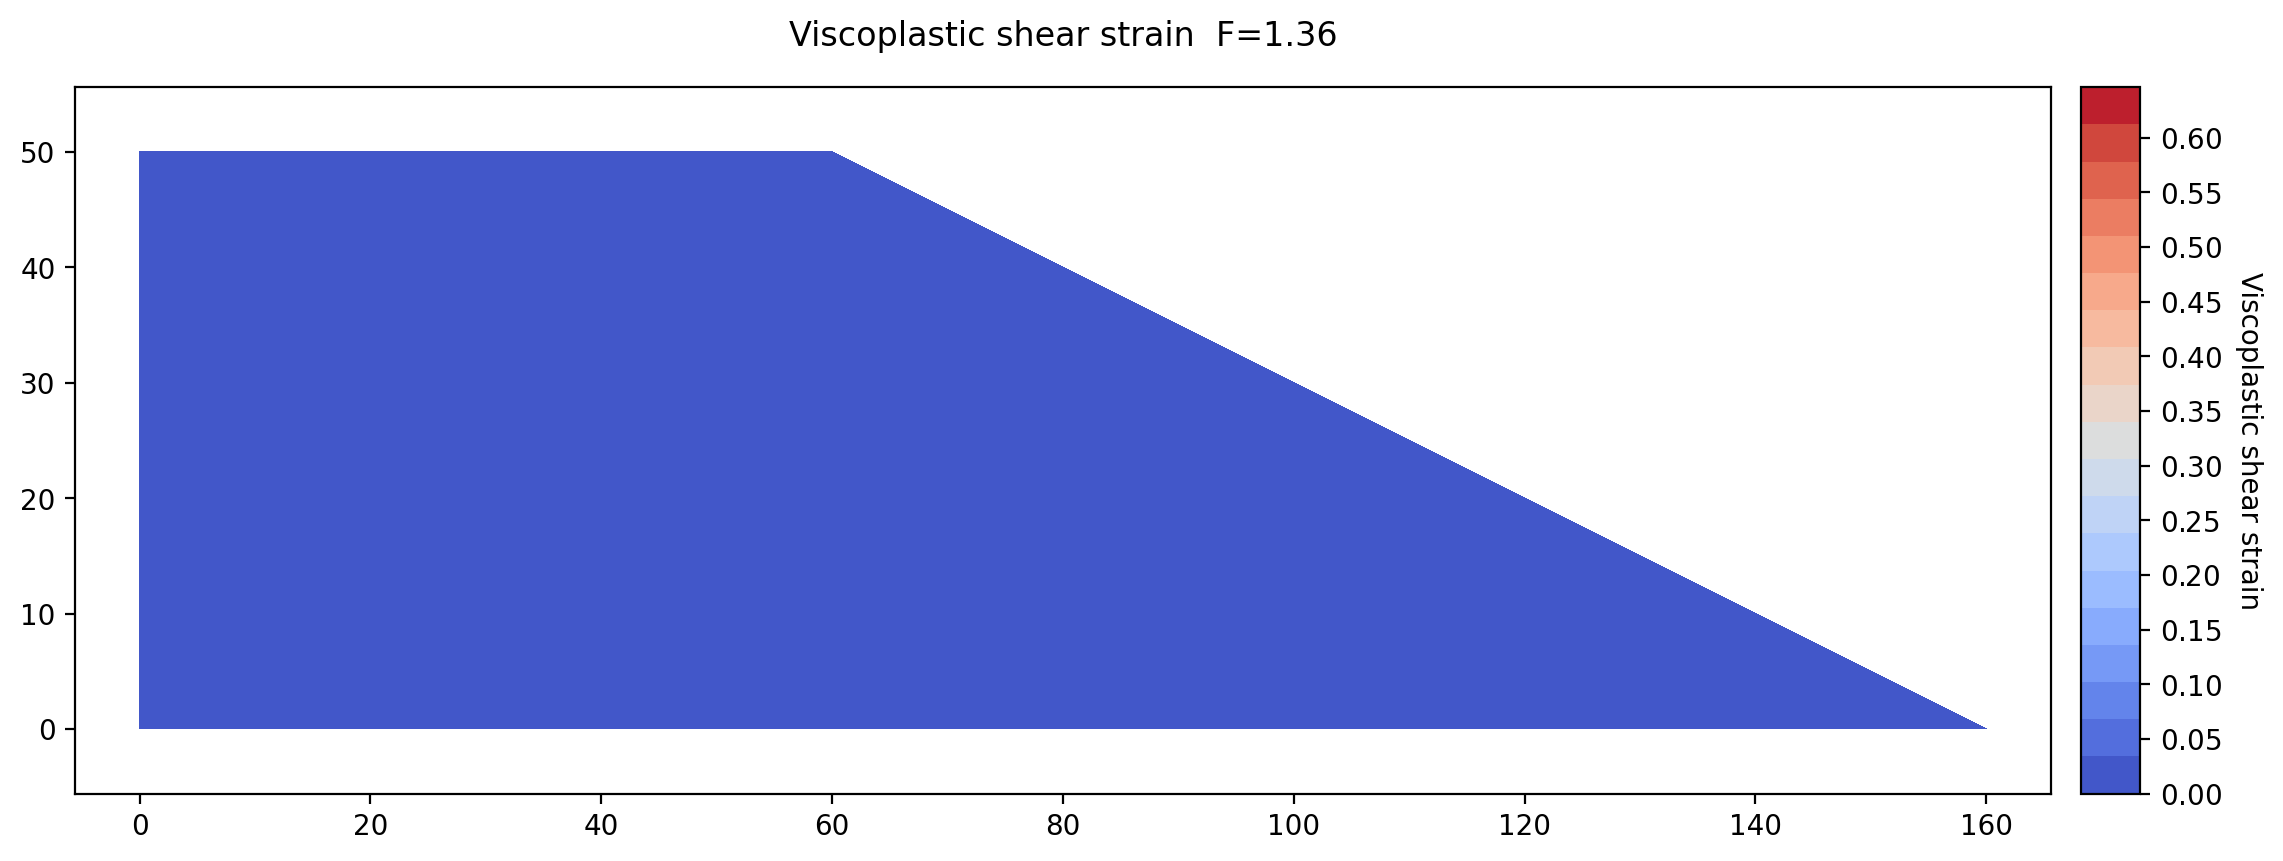
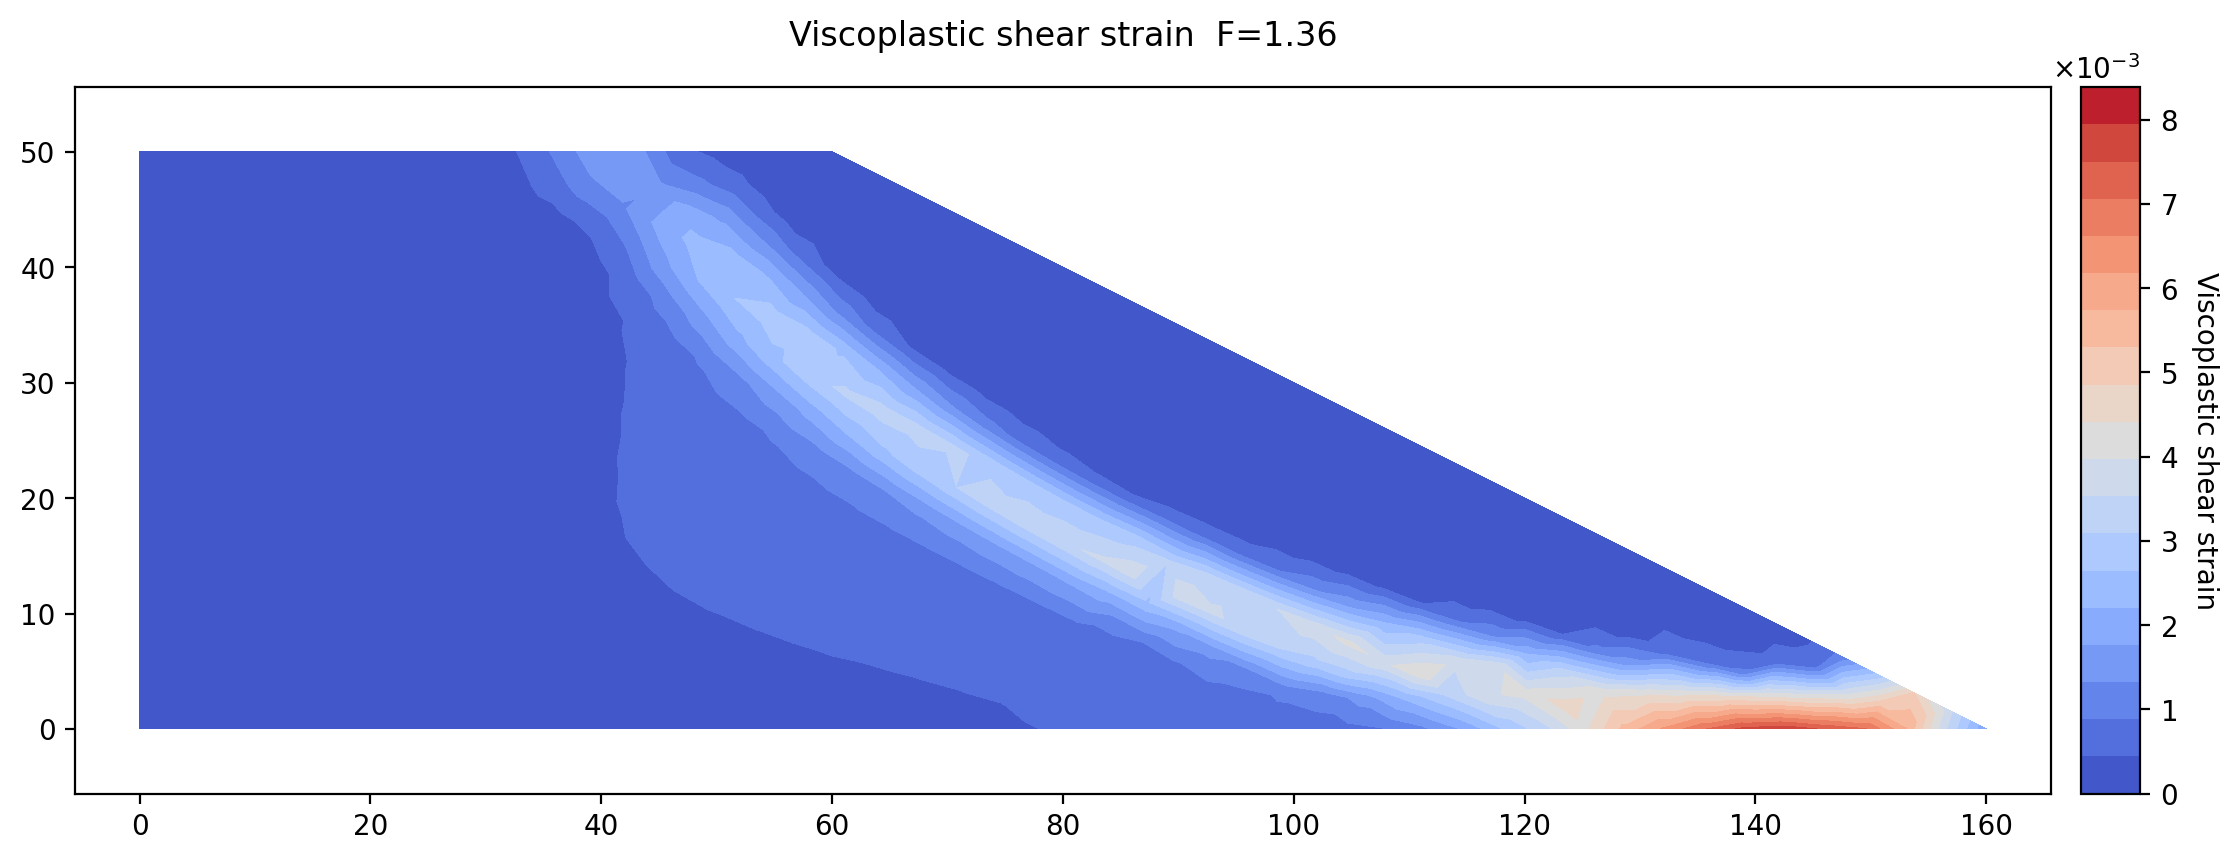
docs(tutorials): the converged panel draws itself the way Studio does
The shared-scale device produced a solid blue rectangle; the autoscaled
panel shows what it always had to say — the band already tracing the
crest-to-toe path at a color bar eighty times shorter than failure's.

Claude-Session: https://claude.ai/code/session_01XjjT2aBxw8gY7EFdpoUcpj

diff --git a/tools/make_tutorial_figures.py b/tools/make_tutorial_figures.py
@@ -4103,9 +4103,9 @@ def fem01_plots():
     and the captured collapse.  Every number the page quotes is on one of these
     lines.
 
-    The two-state pair is drawn on ONE color range, exaggeration and arrow scale
-    (``shared_panel_scales``), so the difference between the two pictures is the
-    difference between the states and not the difference between two autoscales.
+    Every results panel is drawn autoscaled, exactly as Studio draws it — the
+    converged state's figure matches the reader's screen, and the comparison
+    between the states is carried by the color bar ranges, not a shared scale.
     """
     import time
 
@@ -4199,21 +4199,17 @@ def fem01_plots():
                 fs=result["FS"], failure_solution=fail, field_state="failure")
 
     # The comparison the page's failure definition rests on: the same section at
-    # the last trial that reached equilibrium, beside the collapse. Only the
-    # converged panel is drawn here — ``fem01_shear_strain.png`` above IS the
-    # failed half, at the same color range, so drawing it twice would commit two
-    # identical files. The range, the exaggeration and the arrow length come from
-    # BOTH fields (shared_panel_scales), so a strain color means the same strain
-    # in the pair and the difference between the pictures is the difference
-    # between the states.
-    scales = shared_panel_scales(fem_data, [last, fail])
-    print("   shared      shear-strain range %s–%s · exaggeration %s · longest "
-          "arrow %s" % (scales["vmin"], scales["vmax"], scales["deform_scale"],
-                        scales["vector_max"]))
+    # the last trial that reached equilibrium. Autoscaled to its own range, the
+    # way Studio draws every field state — the reader's screen and this figure
+    # agree, and the eightyfold gap between the two states' color bar maxima is
+    # the comparison the page teaches.
+    own = shared_panel_scales(fem_data, [last])
+    both = shared_panel_scales(fem_data, [last, fail])
+    print("   ranges      converged shear strain %s–%s · at failure %s–%s"
+          % (own["vmin"], own["vmax"], both["vmin"], both["vmax"]))
     capture("fem01_shear_strain_converged.png", plot_fem_results, fem_data, last,
             plot_type="shear_strain", fs=result["FS"], failure_solution=fail,
-            field_state="converged", vmin=scales["vmin"], vmax=scales["vmax"],
-            vector_max=scales["vector_max"])
+            field_state="converged")
 
 
 GROUPS = {

diff --git a/docs/tutorials/fem01_strength_reduction.md b/docs/tutorials/fem01_strength_reduction.md
@@ -593,17 +593,16 @@ re-solves once at FS × 1.15 — the **Capture margin** on the dialog, 1.3633 ×
 develop the mechanism the figures show. The factor of safety, the bracket and
 the converged field are unaffected either way.
 
-The two states compare directly on **one scale**. The figure below is the
-converged state at *F* = 1.3594, drawn not on its own range but on the failure
-state's — 0 to 0.646, the same scale as the shear strain figure above — so the
-two panels can be read against each other:
+The figure below is the converged state at *F* = 1.3594, drawn the way Studio
+draws it, on its own range:
 
-![The converged state, drawn on the same color scale as the failed state above](images/fem01_shear_strain_converged.png){width=1000}
+![The converged state at F = 1.3594, scaled to its own strain range](images/fem01_shear_strain_converged.png){width=1000}
 
-On that scale the whole embankment sits uniformly in the bottom band, which is
-what an eightyfold difference in range looks like when it is drawn rather than
-tabulated. Below the critical factor the embankment barely strains; past it, the
-same soil develops a continuous band from crest to toe. The transition the
+The band is already there. The strain concentrates along the same crest-to-toe
+path the failed state develops, hot spot at the base near the toe and all — but
+the color bar tops out near 0.008 where the failed state's reached 0.646.
+Below the critical factor the embankment strains along the eventual surface and
+stops; past it, the same band runs away eightyfold. The transition the
 bisection spent nine solves locating is the transition between these two
 pictures.
 
